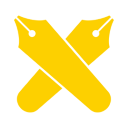
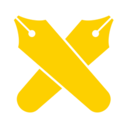
写真名変更、iconに19px, 38pxを追加

diff --git a/service-worker.js b/service-worker.js
@@ -1,8 +1,8 @@
 chrome.runtime.onInstalled.addListener((details) => {
   chrome.action.setIcon({
     path: {
-      16: 'images/icon16.png',
-      48: 'images/icon48.png'
+      16: 'images/icon19.png',
+      48: 'images/icon38.png'
     }
   });
   if (details.reason ===  "install"){
